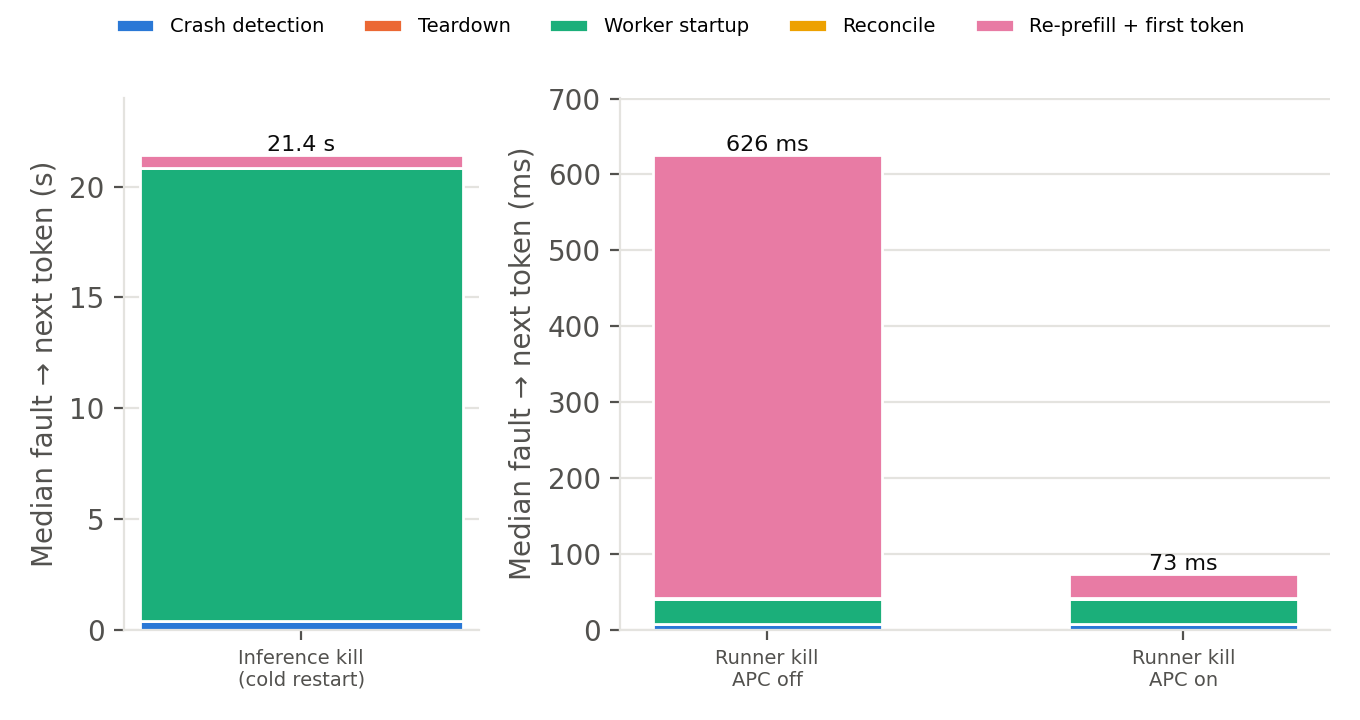
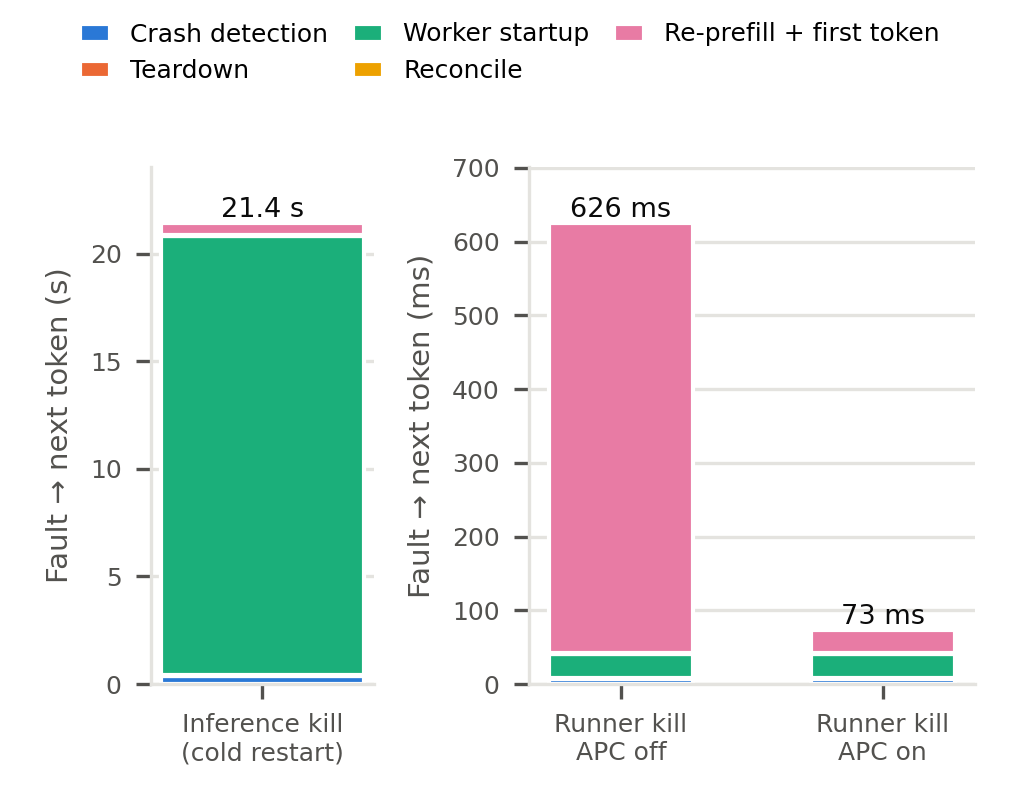
fix: fit midterm table and recovery figure to one paper column
Compiled the section with TeX Live: the table overflowed the column by 14pt and
the figure's legend was unreadable when scaled to 3.3in.

diff --git a/experiments/spike/analyze.py b/experiments/spike/analyze.py
@@ -143,7 +143,8 @@ def fig_recovery(groups: dict[str, list[dict]], path: Path):
     panels = [[n for n in groups if n.startswith("Inference") and groups[n]],
               [n for n in groups if n.startswith("Runner") and groups[n]]]
     panels = [ns for ns in panels if ns]
-    fig, axes = plt.subplots(1, len(panels), figsize=(6.8, 3.6), dpi=200,
+    # sized for one column of a two-column paper (3.3 in), so text stays legible
+    fig, axes = plt.subplots(1, len(panels), figsize=(3.4, 2.7), dpi=300,
                              gridspec_kw={"width_ratios": [len(ns) for ns in panels]})
     axes = axes if len(panels) > 1 else [axes]
     for ax, names, unit, scale in zip(axes, panels, ("s", "ms"), (1000, 1)):
@@ -155,13 +156,15 @@ def fig_recovery(groups: dict[str, list[dict]], path: Path):
             bottoms = [b + v for b, v in zip(bottoms, vals)]
         for x, b in enumerate(bottoms):
             ax.text(x, b, f"{b:.1f} {unit}" if unit == "s" else f"{b:.0f} {unit}",
-                    ha="center", va="bottom", color=INK, fontsize=8)
+                    ha="center", va="bottom", color=INK, fontsize=6.5)
         ax.margins(y=0.12)
-        _style(ax, f"Median fault → next token ({unit})")
-        ax.tick_params(axis="x", labelsize=7)
+        _style(ax, f"Fault → next token ({unit})")
+        ax.yaxis.label.set_size(7)
+        ax.tick_params(axis="both", labelsize=6)
     handles, labels = axes[0].get_legend_handles_labels()
-    fig.legend(handles, labels, frameon=False, fontsize=7, loc="upper center", ncol=5)
-    fig.tight_layout(rect=(0, 0, 1, 0.92))
+    fig.legend(handles, labels, frameon=False, fontsize=6, loc="upper center", ncol=3,
+               handlelength=1.2, columnspacing=1.0)
+    fig.tight_layout(rect=(0, 0, 1, 0.86), w_pad=0.8)
     fig.savefig(path)
     plt.close(fig)
 

diff --git a/docs/midterm/rq2-spike-section.tex b/docs/midterm/rq2-spike-section.tex
@@ -13,19 +13,18 @@
 \vskip 0.10in
 \centering
 \small
-\begin{tabular}{lr}
+\begin{tabular}{@{}lr@{}}
 \toprule
 Measurement & Result \\
 \midrule
 Cold start, warm caches & 20.5~s \\
-Cold start, empty driver JIT cache & 86~s \\
-Prefill 2K / 8K / 16K, APC off & 0.09 / 0.45 / 1.09~s \\
+Cold start, empty JIT cache & 86~s \\
+Prefill 2K / 8K / 16K & 0.09 / 0.45 / 1.09~s \\
 Prefill 16K, APC hit & 0.042~s \\
 Decode, single stream & 161~tok/s \\
 \midrule
-Inference kill: crash $\to$ next token & 21.6~s \\
-Runner kill, APC off & 0.63~s \\
-Runner kill, APC on & 0.073~s \\
+Inference kill $\to$ next token & 21.6~s \\
+Runner kill, APC off / on & 0.63 / 0.073~s \\
 \bottomrule
 \end{tabular}
 \vskip -0.05in
